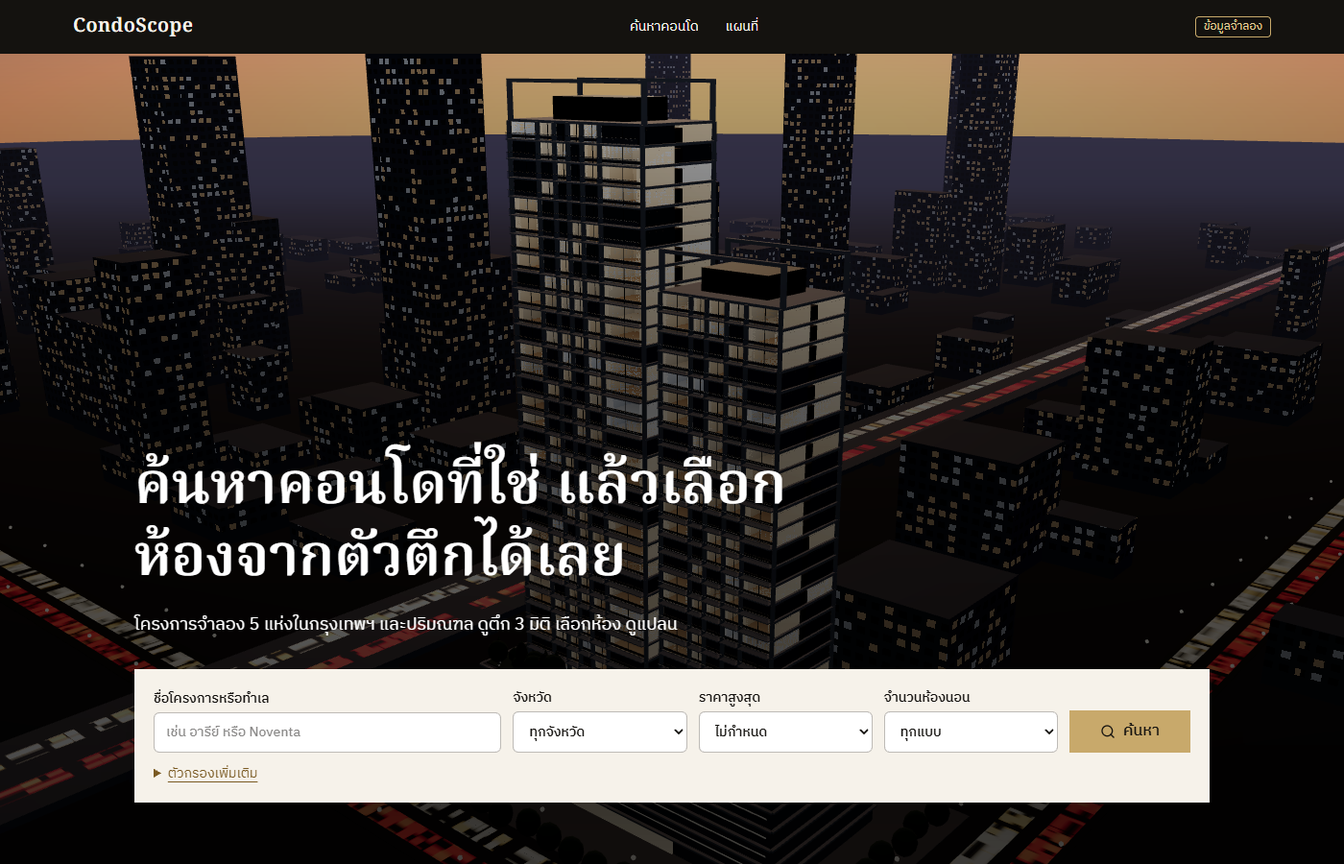
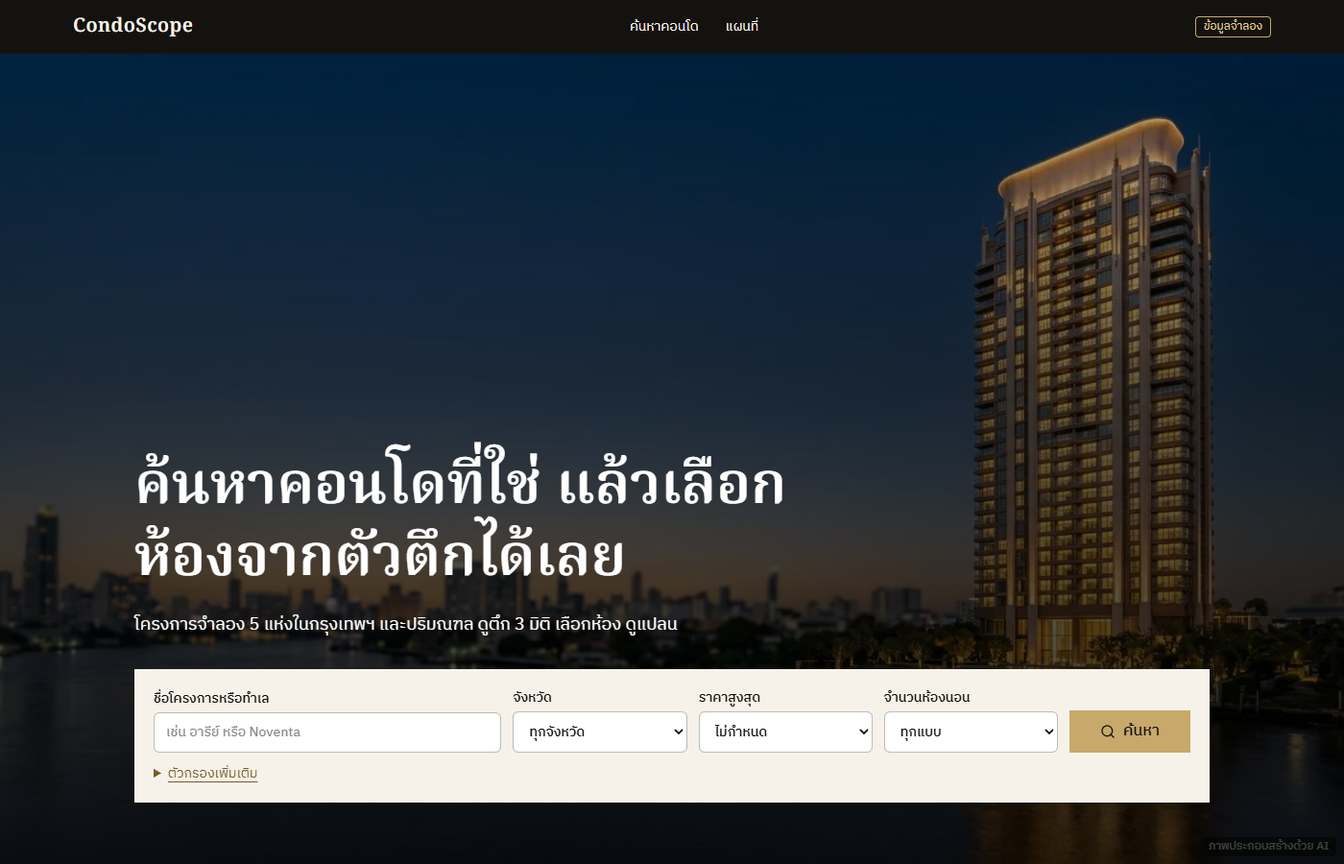
feat(web): intro e2e, skip button name, retaken screenshots, spec 8.1 and docs for the first-visit intro

diff --git a/apps/web/e2e/screenshots.spec.ts b/apps/web/e2e/screenshots.spec.ts
@@ -6,7 +6,8 @@ import { open3D, panelTitle, visibleUnits } from './helpers';
 // README pictures. Only runs through `npm run screenshots` (SCREENSHOTS=1) so normal e2e runs do not rewrite tracked files.
 test.skip(!process.env.SCREENSHOTS, 'run with npm run screenshots');
 // README pictures show the full-quality scene at the desktop size, unlike the other specs (see playwright.config.ts)
-test.use({ viewport: { width: 1400, height: 900 }, storageState: { cookies: [], origins: [] } });
+// returning visitor (no intro); the intro test below removes the mark
+test.use({ viewport: { width: 1400, height: 900 }, storageState: { cookies: [], origins: [{ origin: `http://localhost:${process.env.E2E_PORT ?? 4321}`, localStorage: [{ name: 'condoscope.intro', value: 'seen' }] }] } });
 
 const dir = fileURLToPath(new URL('../../../docs/screenshots/', import.meta.url));
 const shot = (page: import('@playwright/test').Page, name: string) => page.screenshot({ path: `${dir}${name}.png` });
@@ -69,11 +70,12 @@ test('ภาพหน้าจอสำหรับ README (6 หน้า + ม
   await shot(page, 'explorer-mobile');
 });
 
-// The home page story at points of the scroll (desktop, the live 3D tier). STORY_REVIEW_DIR also takes the phone sizes, for looking at only.
+// The first-visit intro at points of the scroll (desktop, the live 3D tier). STORY_REVIEW_DIR also takes the phone sizes, for looking at only.
 test('ภาพหน้าจอส่วนเล่าเรื่อง', async ({ page }) => {
   test.setTimeout(300_000);
   mkdirSync(dir, { recursive: true });
   await page.addInitScript(() => {
+    localStorage.removeItem('condoscope.intro'); // a first-time visitor
     Object.defineProperty(navigator, 'hardwareConcurrency', { value: 8 });
     Object.defineProperty(navigator, 'deviceMemory', { value: 8 });
   });
@@ -87,10 +89,10 @@ test('ภาพหน้าจอส่วนเล่าเรื่อง', as
     await page.setViewportSize({ width: w, height: h });
     await page.goto('');
     await expect(page.locator('.story-stage canvas')).toBeAttached({ timeout: 90_000 });
-    for (const [name, f] of [['first', 0], ['filter', 0.2], ['tower', 0.58], ['room', 0.84], ['end', 1]] as const) {
+    for (const [name, f] of [['intro-first', 0], ['intro-filter', 0.2], ['intro-tower', 0.58], ['intro-room', 0.84], ['intro-end', 1]] as const) {
       await scrollTo(f);
       await page.waitForTimeout(w === 1400 ? 4500 : 3000);
-      await page.screenshot({ path: keep ? `${dir}story-${name}.png` : `${review}/story-${name}-${w}.png` });
+      await page.screenshot({ path: keep ? `${dir}${name}.png` : `${review}/${name}-${w}.png` });
     }
   }
 });

diff --git a/apps/web/playwright.config.ts b/apps/web/playwright.config.ts
@@ -12,11 +12,12 @@ export default defineConfig({
   expect: { timeout: 15_000 },
   fullyParallel: false,
   workers: 1,
+  // Every test is a returning visitor: the first-visit intro is skipped (story.spec.ts tests the intro with an empty storage).
   // The 3D scene starts in its cheaper tier and the window is smaller: on a 2-core CI runner with software WebGL the full tier
   // blocked the page for 16 s while the canvas was unmounted (seen in traces). The tier switch itself is covered by frameGuard tests.
   use: {
     baseURL: `http://localhost:${PORT}/condoscope/`, viewport: { width: 1100, height: 720 },
-    storageState: { cookies: [], origins: [{ origin: `http://localhost:${PORT}`, localStorage: [{ name: 'condoscope.quality', value: 'low' }] }] }, trace: 'retain-on-failure', screenshot: 'only-on-failure',
+    storageState: { cookies: [], origins: [{ origin: `http://localhost:${PORT}`, localStorage: [{ name: 'condoscope.quality', value: 'low' }, { name: 'condoscope.intro', value: 'seen' }] }] }, trace: 'retain-on-failure', screenshot: 'only-on-failure',
   },
   projects: [
     { name: 'chromium', grepInvert: /@nogl/, use: { browserName: 'chromium', launchOptions: { args: SOFT_GL } } },

diff --git a/apps/web/src/components/IntroSkip.tsx b/apps/web/src/components/IntroSkip.tsx
@@ -4,8 +4,8 @@ import { useFinishIntro } from '../lib/intro';
 export default function IntroSkip() {
   const finish = useFinishIntro();
   return (
-    <button type="button" onClick={finish} aria-label="ข้ามการแนะนำ" className="fixed right-4 top-16 z-50 bg-ivory px-5 py-2 font-medium text-ink shadow-lg hover:bg-champagne-soft">
-      ข้าม
+    <button type="button" onClick={finish} className="fixed right-4 top-16 z-50 bg-ivory px-5 py-2 font-medium text-ink shadow-lg hover:bg-champagne-soft">
+      ข้าม<span className="sr-only">การแนะนำ</span>
     </button>
   );
 }

diff --git a/CLAUDE.md b/CLAUDE.md
@@ -63,16 +63,16 @@
   - branch นี้ merge `fix/e2e-slow-frames` (PR #6) เข้ามาแล้วเพื่อให้ e2e ของ 3D เสถียรขึ้น
   - ✅ ดูภาพหน้าจอแล้ว (1400×900 ครบ, 1024×700 และ 390×844 หน้าแรก/โครงการ/ห้อง ไม่ล้น ไม่มีเลื่อนแนวนอน) · e2e รอบเต็มในเครื่อง 44 ผ่าน + 1 ข้าม · เอกสารอัปเดตแล้ว (README, `docs/architecture.md` หัวข้อ "ภาษาภาพ") · สเปกข้อ 8.1 เพิ่มประโยคว่าใต้ช่องค้นหามีส่วนเล่าเรื่องได้ (ผู้ใช้ยืนยัน 2026-11-15) และข้อ 8.2 แก้บรรทัดโทนสีให้ตรงแผน 5 · merge และ deploy แล้ว (CI บน main เขียว)
   - 🧑 **test case QA/BA ที่อาจล้าสมัย (ไม่แก้ให้):** ข้อที่อ้างลำดับ/ข้อความบนหน้าแรก (Hero ใหม่, "เขต" และ "ราคาต่ำสุด" ย้ายไป "ตัวกรองเพิ่มเติม"), การ์ดและหน้าค้นหา, หน้าโครงการ (ลำดับองค์ประกอบ, CTA ก่อนเนื้อหา), contrast/สี, `user-flow.md` และภาพหน้าจอในเอกสาร
-- ✅ **แผน 6 (จอแรกเป็นตึก 3D + scroll story + View Transitions) เขียนโค้ดครบแล้ว บน branch `feat/plan-6` (PR #10) รอผู้ใช้ merge** (`docs/plans/2026-11-12-plan-6-scroll-story.md`; ผู้ใช้อนุมัติ 2026-11-15 และสั่งแก้ทิศทางเมื่อ 2026-11-15) · ภายใต้ `apps/web/src/features/story/` ดู `docs/architecture.md` หัวข้อ "จอแรกและ scroll story"
-  - **ทิศทางที่ผู้ใช้สั่งแก้ (ตรงกับสเปกข้อ 8.1 ที่แก้แล้ว):** (1) จอแรกเป็นตึก 3D พื้นหลังเต็มจอ ช่องค้นหาลอยบนภาพและใช้ได้ทันที — ภาพนิ่งขึ้นก่อนแล้วค่อยเปลี่ยนเป็น 3D เมื่อโหลดเสร็จ (2) เนื้อหาเป็นการแนะนำ**ระบบ** ไม่ใช่โครงการเดียว: ค้นหา/กรอง → แผนที่ → ตึก 3D ดูสถานะทีละชั้น → แปลนและภาพภายใน → จองเดโม ตัวเลขเป็นภาพรวม (จำนวนโครงการ, ห้องว่างรวม) ตึกสลับ 3 โครงการ (3) มีปุ่ม "ข้ามส่วนนี้" ไม่ล็อกการเลื่อน ลดการเคลื่อนไหว = เนื้อหานิ่ง (4) แก้สเปกข้อ 8.1 และกฎใน CLAUDE.md ข้อ "หน้าแรกต้องเป็นหน้าค้นหา" แล้ว (เดิมห้ามตึก 3D ในจอแรก) — **ผมแก้ข้อกฎใน CLAUDE.md ด้วยตามที่ผู้ใช้สั่งเปลี่ยนสเปก**
-  - ทำแล้ว: ตัวขับการเลื่อนเอง (ไม่ใช้ GSAP/Lenis) · ไทม์ไลน์เป็นฟังก์ชันบริสุทธิ์ของ `p` (6 บท, 3 ฉาก) · 3 tier (live 3D / ภาพนิ่ง 4 ภาพ / เนื้อหานิ่ง) · `StoryHero` อยู่ใน entry วาดจอแรกทันทีไม่รอ API · ไฟห้องว่างทีละชั้น (`Towers` prop `storyFloor`) · ตัวเลขห้องว่างรวมทุกโครงการ (ไม่แสดงถ้ามีโครงการไม่ตอบ) · กล้องพุ่งเข้าห้องเลี้ยวอ้อมตึก · ภาพห้องนั่งเล่นเปิดจากหน้าต่างห้อง · View Transition การ์ด→Hero · ภาพนิ่ง `npm run story-stills` (3 โครงการ) · งบ bundle `storyGzip` 40 KB
-  - Test ล่าสุด: `tsc` ผ่าน, Vitest web 293 ผ่าน, bundle ผ่าน (entry ≈ 106 KB gzip รวมชิ้น start เพดาน 130 เกินเป้า 105 เล็กน้อยเพราะ `StoryHero` อยู่ใน entry, `StoryScene` ≈ 1.6 KB, three.js ไม่อยู่ใน entry), e2e รอบเต็ม 58 ผ่าน + 3 ข้าม (spec ภาพหน้าจอ 2 ข้อและภาพนิ่ง รันเฉพาะตอนสั่ง) โดย `story.spec.ts` 14 ข้อ · ดูภาพหน้าจอเองที่ 1400×900, 390×844, 320×640 แล้ว (เจอและแก้: ตัวอักษรบทเป็นสีเข้มบนภาพมืด, ช่องว่างงาช้างใต้เวที)
-  - ⚠ ที่ต่างจากแผน: **`Link viewTransition` ใช้ไม่ได้กับ `HashRouter`** จึงให้ `ProjectCard` ห่อ `navigate()` ด้วย `document.startViewTransition` เอง · e2e ข้อ "จอแรกไม่มี canvas" ถูกแทนด้วย "ช่องค้นหาอยู่ในจอและใช้ได้ทันที; เครื่องอ่อนไม่ดาวน์โหลดโค้ด 3D เลย" · `Probe` ของ `Building3D` เพิ่มตะขอทดสอบ `lookFrom` (ใช้ถ่ายภาพนิ่ง)
-  - ⚠ **ต้นทุนข้อมูล:** เครื่องที่ได้ tier live เรียก `getExplorer` สูงสุด 3 ครั้ง (700–1,400 แถวต่อครั้ง) + `getProject` ทุกโครงการ 5 ครั้ง (ทุก tier) ต่อผู้เข้าชม — เดิมหน้าแรกไม่เรียกพวกนี้ · ถ้าโควตา D1 ฟรีตึง ให้ลดเหลือภาพนิ่งอย่างเดียว หรือเพิ่ม endpoint สรุปห้องว่างรวม (ผู้ใช้ต้องตัดสินใจ ผมไม่ได้เพิ่ม API)
-  - ⚠ บน Windows ถ้า e2e ค้างแล้ว `workerd` ยังกินพอร์ต/ล็อกโฟลเดอร์ `apps/api/.wrangler/e2e-<พอร์ต>` ให้เปลี่ยนพอร์ตด้วย `E2E_PORT=… E2E_API_PORT=…` (ใช้ได้ผล)
-  - 🧑 **ผู้ใช้ต้องทำเอง:** ลองบนมือถือจริง iOS/Android (ลื่นไหม, address bar หด/ขยาย, สลับเป็นภาพนิ่งเองบนเครื่องอ่อนไหม), ลดการเคลื่อนไหว, screen reader, Firefox/เบราว์เซอร์เก่า (View Transitions) · ผมวัด FPS บนเครื่องจริงไม่ได้ · ตัดสินใจเรื่องต้นทุนข้อมูลข้างบน
-  - 🧑 **test case QA/BA ที่อาจล้าสมัย (ไม่แก้ให้):** TC ของหน้าแรกเกือบทั้งหมด (จอแรกตอนนี้เป็นตึก 3D/ภาพนิ่งพร้อมช่องค้นหาลอย, ข้อ "ไม่มี 3D บนหน้าแรก" ผิดแล้ว, ลำดับหัวข้อ, ช่องค้นหาจางหายเมื่อเลื่อน), การ์ดโครงการ (ภาพ AI + ป้าย + transition), ลดการเคลื่อนไหว, `user-flow.md`
-  - ข้อเล็กที่ยังไม่แก้: ปุ่มย้อนกลับของเบราว์เซอร์ไม่มี View Transition · ถ้าข้อมูลสรุปห้องว่างไม่มา บทตัวเลขจะไม่มีตัวเลข (ไม่แสดง error) · entry เกินเป้า 105 KB เล็กน้อย
+- ✅ **แผน 6 (intro ผู้เข้าชมครั้งแรก + scroll story + View Transitions) เขียนโค้ดครบแล้ว บน branch `feat/plan-6` (PR #10) รอผู้ใช้ merge** (`docs/plans/2026-11-12-plan-6-scroll-story.md`; ผู้ใช้อนุมัติ 2026-11-15 และสั่งแก้ทิศทางสองรอบในวันเดียวกัน) · โค้ดใน `apps/web/src/features/story/`, `features/home/HomeGate.tsx`, `lib/intro.ts` · ดู `docs/architecture.md` หัวข้อ "Intro ผู้เข้าชมครั้งแรก"
+  - **ทิศทางสุดท้ายที่ผู้ใช้สั่ง (สเปกข้อ 8.1 และกฎด้านล่างแก้ตรงกันแล้ว):** เข้า `/` ครั้งแรกเห็น **intro เต็มจอ ไม่มีช่องค้นหา** เลื่อนแนะนำระบบ (ตึก 3D → ค้นหา/กรอง → แผนที่ → เลือกห้องจากตัวตึก → แปลนและภาพภายใน → จองเดโม) บทสุดท้ายปุ่ม "เริ่มหาคอนโด" ไปหน้าแรกปกติ (Hero `home-hero` + ช่องค้นหา ตามแผน 5) · ปุ่ม "ข้าม" มองเห็นตลอดและเป็นจุดโฟกัสแรก ไม่ล็อกการเลื่อน · จำใน localStorage (`condoscope.intro`) ใช้ไม่ได้ก็ยังข้ามได้ · ลิงก์ "ดูแนะนำอีกครั้ง" ที่ Footer (`/intro`) · ลิงก์ตรงหน้าอื่นไม่เจอ intro · ลดการเคลื่อนไหว = สไลด์นิ่งไม่โหลดโค้ด 3D · **ผมแก้กฎ "หน้าแรกต้องเป็นหน้าค้นหา" ใน CLAUDE.md ตามที่ผู้ใช้สั่งเปลี่ยนสเปก** (หน้าค้นหายังเป็นหน้าแรกของผู้ใช้ที่กลับมา)
+  - ทำแล้ว: ตัวขับการเลื่อนเอง (ไม่ใช้ GSAP/Lenis) · ไทม์ไลน์เป็นฟังก์ชันบริสุทธิ์ของ `p` (6 บท, 3 ตึกจาก 3 โครงการ) · 3 tier (live 3D / ภาพนิ่ง 4 ภาพ / สไลด์นิ่ง) · `Intro` เป็นชิ้น lazy (คนกลับมาไม่โหลด) ภาพนิ่งแรกขึ้นทันที · ไฟห้องว่างทีละชั้น (`Towers` prop `storyFloor`) · ตัวเลขห้องว่างรวมทุกโครงการ (ไม่แสดงถ้ามีโครงการไม่ตอบ) · กล้องพุ่งเข้าห้องเลี้ยวอ้อมตึก · ภาพห้องเปิดจากหน้าต่างห้อง · View Transition การ์ด→Hero · `npm run story-stills` · งบ `storyGzip` 40 KB
+  - Test ล่าสุด: ดูบรรทัดสรุปท้ายหัวข้อนี้ในรายงานของ PR #10 · ภาพหน้าจอดูเองที่ 1400×900, 390×844, 320×640 แล้ว
+  - ⚠ ที่ต่างจากแผนเดิม: `Link viewTransition` ใช้ไม่ได้กับ `HashRouter` จึงห่อ `navigate()` ด้วย `document.startViewTransition` เองใน `ProjectCard` · ปุ่มข้ามใช้ข้อความ "ข้าม" + ส่วนซ่อน "การแนะนำ" (ไม่ใช้ `aria-label` เพราะ axe `label-content-name-mismatch`) · `Probe` ของ `Building3D` เพิ่มตะขอทดสอบ `lookFrom` · e2e ทั้งชุดตั้ง `condoscope.intro=seen` ใน `playwright.config.ts` (ผู้ใช้ที่กลับมา) ส่วน `story.spec.ts` เริ่มจาก storage ว่าง
+  - ⚠ **ต้นทุนข้อมูล:** เกิดเฉพาะผู้เข้าชมครั้งแรกของแต่ละเครื่อง: `getProject` ทุกโครงการ 5 ครั้ง (ทุก tier) และถ้าได้ tier live อีก `getExplorer` สูงสุด 3 ครั้ง (700–1,400 แถว/ครั้ง) · ผู้ที่กลับมาไม่ผ่าน intro จึงไม่เสียต้นทุนนี้ · ถ้าโควตา D1 ฟรีตึง ให้ลดเหลือภาพนิ่งอย่างเดียว (ผู้ใช้ตัดสินใจ)
+  - ⚠ บน Windows ถ้า e2e ค้างแล้ว `workerd` ยังกินพอร์ต/ล็อกโฟลเดอร์ `apps/api/.wrangler/e2e-<พอร์ต>` ให้เปลี่ยนพอร์ตด้วย `E2E_PORT=… E2E_API_PORT=…`
+  - 🧑 **ผู้ใช้ต้องทำเอง:** ลองบนมือถือจริง iOS/Android (ลื่นไหม, address bar หด/ขยาย, สลับเป็นภาพนิ่งเองบนเครื่องอ่อนไหม), ลดการเคลื่อนไหว, screen reader (อ่านบทครบ ปุ่มข้ามเป็นตัวแรก), Firefox/เบราว์เซอร์เก่า (View Transitions), localStorage ถูกบล็อก (โหมดส่วนตัวบางตัว) · ผมวัด FPS บนเครื่องจริงไม่ได้
+  - 🧑 **test case QA/BA ที่อาจล้าสมัย (ไม่แก้ให้):** TC ของหน้าแรกที่สมมติว่าเข้า `/` แล้วเจอ Hero ทันที (ตอนนี้ผู้เข้าครั้งแรกเจอ intro — ต้องล้าง localStorage หรือกดข้ามก่อน), การ์ดโครงการ (ภาพ AI + ป้าย + transition), ลดการเคลื่อนไหว, Footer (มีลิงก์ใหม่), `user-flow.md` (ทางเดินหลักเริ่มด้วย intro สำหรับผู้เข้าครั้งแรก)
+  - ข้อเล็กที่ยังไม่แก้: ปุ่มย้อนกลับของเบราว์เซอร์ไม่มี View Transition · ถ้าข้อมูลสรุปห้องว่างไม่มา บทตัวเลขไม่มีตัวเลข (ไม่แสดง error) · ผู้ใช้ที่ localStorage ถูกบล็อกจะเห็น intro ทุกครั้งที่เปิดแท็บใหม่
 
 ## กฎที่ห้ามฝ่า
 - **งบ 0 บาท:** ใช้ free tier และ open source เท่านั้น ห้ามใช้บริการที่ต้องผูกบัตร
@@ -80,7 +80,7 @@
 - ห้ามแสดงข้อมูล fallback ว่าเป็นข้อมูล live
 - ห้ามมี secret ใน frontend และทุก SQL ต้องใช้ parameter binding
 - UI เป็นภาษาไทย สกุลเงิน THB
-- **หน้าแรกต้องเป็นหน้าค้นหาคอนโด** ห้ามเปิดมาเจอแผนที่เต็มจอหรือหน้าโครงการ **จอแรกเป็นตึก 3D พื้นหลังเต็มจอได้ (ผู้ใช้เปลี่ยน 2026-11-15)** แต่ช่องค้นหาต้องลอยบนภาพและใช้ได้ทันทีโดยไม่ต้องเลื่อน (320×640 / 390×844 / ≥1024) และ three.js ห้ามอยู่ใน entry (โหลด lazy ภายหลังภาพนิ่ง) (ดูสเปกข้อ 8.1)
+- **หน้าแรกของผู้ใช้ที่กลับมาต้องเป็นหน้าค้นหาคอนโด** (Hero ภาพ `home-hero` + ช่องค้นหา + การ์ดโครงการ) ห้ามเปิดมาเจอแผนที่หรือหน้าโครงการ · **ผู้เข้าชมครั้งแรกเห็น intro เต็มจอ (ตึก 3D ไม่มีช่องค้นหา) ที่ `/` เท่านั้น** มีปุ่มข้ามเสมอ ลิงก์ตรงหน้าอื่นไม่เจอ intro และ three.js ห้ามอยู่ใน entry (ผู้ใช้เปลี่ยนข้อกำหนดนี้ 2026-11-15, ดูสเปกข้อ 8.1)
 - **ตอนแก้สเปกหรือไฟล์นี้ ให้อ่านเวอร์ชันล่าสุดจากดิสก์ก่อนทุกครั้ง** ผู้ใช้อาจแก้ไฟล์จากแชท claude.ai ไว้ (เคยเกิดกรณีเขียนทับจนข้อ 8.1 หายไปมาแล้ว)
 
 ## เอกสาร QA/BA ของผู้ใช้ (`docs/qa-ba/`)

diff --git a/docs/architecture.md b/docs/architecture.md
@@ -113,15 +113,17 @@ erDiagram
 
 **e2e กับ 3D บน CI:** runner 2 คอร์ใช้ software WebGL ซึ่งวาดเฟรมละหลายวินาที ครั้งหนึ่งการออกจาก Explorer ค้างเธรดหลัก ~16 วินาที (เห็นใน trace) จึงให้ e2e ตั้ง `localStorage['condoscope.quality']='low'` (ฉากเริ่มที่คุณภาพต่ำ ผู้ใช้จริงตั้งค่านี้ได้เหมือนกัน) และใช้หน้าต่าง 1100×720 · spec ภาพหน้าจอ (`npm run screenshots`) ยังใช้ 1400×900 คุณภาพเต็ม · ทดสอบการสลับคุณภาพที่ `scene/frameGuard.test.ts`
 
-**จอแรกและ scroll story (แผน 6 แก้ตามผู้ใช้ 2026-11-15, `apps/web/src/features/story/`):** จอแรกของหน้าแรกคือตึก 3 มิติเต็มจอ ช่องค้นหา (`SearchBox` จาก `home/Hero.tsx`) ลอยบนภาพ ใช้ได้ทันที ที่ 320×640 / 390×844 / ≥ 1024 แล้วเลื่อนลงมาจะเล่าวิธีใช้เว็บ (ไม่ใช่โฆษณาโครงการเดียว): **ค้นหา → กรอง → แผนที่ → เลือกห้องจากตัวตึกดูสถานะทีละชั้น (ตัวเลขห้องว่างรวมทุกโครงการนับขึ้น) → แปลนและภาพภายใน → จองเดโม** · ตึกในเรื่องสลับ 3 โครงการ (`pickStoryProjects`: โครงการแนะนำก่อน ที่เหลือตาม id): ตึกที่ 1 ช่วงค้นหา/กรอง/แผนที่, ตึกที่ 2 ช่วงเลือกห้อง (ไฟสว่างทีละชั้น), ตึกที่ 3 ช่วงพุ่งเข้าห้อง
-- **ความเร็วจอแรก:** `StoryHero` อยู่ใน entry (ภาพนิ่งแรก `still-1` โหลดด้วย `fetchpriority=high`, ไม่รอรายการโครงการจาก API: วาดจอแรกทันทีแล้วเติมตัวเลือกจังหวัด/เขตภายหลัง) · 3D (`StoryScene` + ชิ้น three.js ที่ใช้ร่วมกับ Explorer) โหลดแบบ lazy **หลัง**ภาพนิ่ง เฉพาะ tier `live` แล้วค่อย fade เข้าเมื่อวาดเฟรมแรกเสร็จ · tier `stills`/`static` ไม่ดาวน์โหลดโค้ด 3D เลย (e2e ตรวจ)
-- **ตัวขับ:** เขียนเอง ไม่ใช้ GSAP/Lenis (GSAP+ScrollTrigger ≈ 45 KB gzip ดัน entry, Lenis จี้การเลื่อน) — `position: sticky` ในกล่องสูง `380svh`/`500svh` + listener `scroll` แบบ passive + rAF คำนวณ `p ∈ [0,1]` จาก `getBoundingClientRect` (`scroll.ts`, `useScrollProgress.ts`) ใช้ `svh`/`clientHeight` ไม่ใช้ `innerHeight` · เวทีสูง `100svh` (ที่ต้นหน้ามีแถบเมนู 3.5rem อยู่ข้างบน กล่องค้นหาจึงเว้นล่างอีก 3.5rem ให้อยู่ในจอแรก) · **ห้ามล็อกการเลื่อน** ไม่มี `preventDefault`, ปุ่ม "ข้ามส่วนนี้" (ปุ่มจริง อยู่หลังช่องค้นหา ไม่ใช่ลิงก์ `#…` เพราะ HashRouter) · ช่องค้นหาจางหายเมื่อเลื่อนผ่านบทแรก (`inert` + `opacity`: โฟกัสไม่ได้ขณะมองไม่เห็น) และกลับมาเมื่อเลื่อนขึ้นสุด; ท้ายเรื่องมีปุ่ม "เริ่มค้นหาคอนโด" และเมนู "ค้นหาคอนโด" ตลอด
-- **ไทม์ไลน์เป็นฟังก์ชันบริสุทธิ์ของ `p`** (`timeline.ts`: บท `search/filter/map/tower/plan/reserve`, `sceneAt`, `orbitDegrees`, ตัวเลข, ชั้นที่สว่าง, `pickShowcaseUnit` · `poses.ts`: ท่ากล้อง แยกไฟล์เพราะ `layout.ts` ดึง three.js) จึงถูกต้องแม้กระโดดเข้ากลางเรื่อง · ท่าพุ่งเข้าห้อง **เลี้ยวอ้อมตึก** ไม่ตัดผ่านตัวตึก (มี test)
-- **3 tier** (`tier.ts` เลือกครั้งเดียวตอนเมานต์ และเมื่อค่าลดการเคลื่อนไหวเปลี่ยน): `live` = Canvas 3D เบา (ใช้ `Towers/City/Landscape/Sky` ของ Explorer ไม่มี SSAO/เงา/OrbitControls, `frameloop="demand"`, `pointer-events: none`) · `stills` = ภาพนิ่ง 4 ภาพจากฉากเดียวกันใน 3 โครงการ (`public/images/story/still-N(.|-sm).webp`, `npm run story-stills`) cross-fade ตาม `p` · `static` (ลดการเคลื่อนไหว) = ภาพ Hero นิ่งเดิม + เนื้อหานิ่งเรียงลงมา มีตัวเลขสุดท้าย ไม่มีเวที · `live` ลดเป็น `stills` อัตโนมัติถ้าชิ้น 3D โหลดไม่ได้ context หาย หรือ 30 เฟรมแรกเฉลี่ย > 28 ms (`slowStory.ts`) จำไว้ทั้งเซสชัน
-- **ข้อมูล** (`useStoryData.ts`): ตัวเลขทั้งระบบมาจาก `getProject` ของทุกโครงการ (aggregate ราคาถูก) ตอนว่าง · **ถ้ามีโครงการใดไม่ตอบ จะไม่แสดงตัวเลขห้องว่าง** (ไม่ให้ยอดรวมไม่ครบ) · ฉาก 3D: ตึกแรกโหลดทันที อีก 2 ตึกโหลดเมื่อเลื่อนเกิน 15% (เฉพาะ tier live; ผลคือ `getExplorer` สูงสุด 3 ครั้งต่อผู้เข้าชมที่เครื่องแรง แทน 1 ครั้งก่อนหน้า — ดูโควตา D1 ใน `docs/architecture.md` ท้ายไฟล์) · ตึกที่ยังไม่มาถึงจะใช้ตึกก่อนหน้าไปก่อน ไม่ทิ้งช่องว่าง · สลับตึกด้วยการหรี่ canvas สั้นๆ · ถ้าข้อมูลมาจาก fallback แบนเนอร์ Demo Fallback Mode ยังขึ้นตามเดิม
-- **View Transition การ์ด → Hero:** Router 8 รองรับ `viewTransition` เฉพาะ data router แต่แอปใช้ `HashRouter` (ทดสอบแล้วไม่เรียก `startViewTransition`) จึงให้ `ProjectCard` ห่อ `navigate()` ด้วย `document.startViewTransition` เอง: ตั้ง `view-transition-name: project-hero` เฉพาะภาพของการ์ดที่ถูกกด และหน้าโครงการตั้งชื่อเดียวกันที่ Hero · การ์ดส่งข้อมูลโครงการไปกับ `location.state` ให้หน้าปลายทางวาด Hero ทันที (ตรวจรูปแบบก่อนใช้) · ไม่รองรับหรือลดการเคลื่อนไหว = ลิงก์ปกติ · เฉพาะไปข้างหน้า
-- **งบ bundle:** entry ≈ 106 KB gzip (เพดาน 130; เกินเป้า 105 เล็กน้อยเพราะ `StoryHero` อยู่ใน entry เพื่อให้จอแรกวาดทันที) · ชิ้น `StoryScene` ≤ 40 KB (`storyGzip`, three.js ใช้ร่วมกับ Explorer ไม่นับ) · ภาพนิ่งแต่ละภาพ ≤ 90 KB · three.js ห้ามอยู่ใน entry (`check:bundles` ตรวจ)
-- **ข้อควรระวัง:** FPS บนมือถือจริงและแถบ address bar ของ iOS ผมวัดไม่ได้ (e2e ใช้ software WebGL ตรวจพฤติกรรม) · e2e ตั้ง `hardwareConcurrency`/`deviceMemory` เองเพื่อเลือก tier ให้แน่นอนบน runner 2 คอร์
+**Intro ผู้เข้าชมครั้งแรก (แผน 6 แก้ตามผู้ใช้ 2026-11-15, `apps/web/src/features/story/`, `lib/intro.ts`):** ผู้เข้า `/` ครั้งแรกเจอ intro เต็มจอแทนหน้าแรก (ตึก 3 มิติ ไม่มีช่องค้นหา) เลื่อนแนะนำระบบ 6 บท: **ตึก 3D → ค้นหา/กรอง → แผนที่ → เลือกห้องจากตัวตึกดูสถานะทีละชั้น (ตัวเลขห้องว่างรวมนับขึ้น) → แปลนและภาพภายใน → จองเดโม** ตึกสลับ 3 โครงการ (`pickStoryProjects`) บทสุดท้ายมีปุ่ม "เริ่มหาคอนโด" ไปหน้าแรกปกติ (Hero `home-hero` + ช่องค้นหา)
+- **ประตู:** `HomeGate` (`features/home/HomeGate.tsx`) เป็นองค์ประกอบของเส้นทาง `/`: ถ้า `useSeenIntro()` → `HomePage` ไม่งั้น `Intro` · `/intro` แสดง intro เสมอ (ลิงก์ "ดูแนะนำอีกครั้ง" ที่ Footer) เมื่อจบจะ `navigate('/')` · **หน้าอื่นไม่มีประตู** (ลิงก์ตรงไป `/project/…`, `/explorer/…`, `/unit/…`, `/search`, `/map` ไม่เจอ intro และการเข้าหน้าเหล่านี้ไม่ถือว่าดูแล้ว) · `lib/intro.ts`: เครื่องหมาย `condoscope.intro = seen` ใน localStorage + แฟล็กในหน่วยความจำ (localStorage ใช้ไม่ได้ = ยังแสดง intro ได้ ปุ่มข้ามทำงาน และ intro ไม่กลับมาในรอบนั้น, ไม่ throw)
+- **ปุ่มข้าม:** `IntroSkip` อยู่ใน `Layout` **ก่อน Navbar** จึงเป็นจุดโฟกัสแรกของหน้า มองเห็นตลอด (`fixed`) ชื่อ "ข้ามการแนะนำ" (ข้อความที่เห็น "ข้าม" + ส่วนที่ซ่อน — ไม่ใช้ `aria-label` เพราะ axe `label-content-name-mismatch` ไม่ผ่าน) · ไม่มี `preventDefault` ที่ wheel/touch: **ไม่ล็อกการเลื่อน**
+- **ความเร็ว:** `Intro` เป็นชิ้น lazy (≈ 5 KB gzip) ผู้ใช้ที่กลับมาไม่ดาวน์โหลด · ระหว่างรอชิ้นนี้ `IntroFallback` แสดงภาพนิ่งแรก `still-1` (`fetchpriority=high`) ทันที · ภาพนิ่ง 4 ภาพ (`public/images/story/still-N(.|-sm).webp` ถ่ายจากฉากเดียวกันใน 3 โครงการ ด้วย `npm run story-stills`) · 3D (`StoryScene` + ชิ้น three.js ร่วมกับ Explorer) โหลดหลังภาพนิ่ง เฉพาะ tier `live` แล้วค่อย fade เข้าเมื่อวาดเฟรมแรกเสร็จ
+- **ตัวขับ:** เขียนเอง ไม่ใช้ GSAP/Lenis — `position: sticky` ในกล่องสูง `380svh`/`500svh` + listener `scroll` แบบ passive + rAF คำนวณ `p ∈ [0,1]` (`scroll.ts`, `useScrollProgress.ts`) ใช้ `svh`/`clientHeight` ไม่ใช้ `innerHeight` · ไทม์ไลน์เป็นฟังก์ชันบริสุทธิ์ของ `p` (`timeline.ts`: บท `welcome/filter/map/tower/plan/reserve`, `sceneAt`, `orbitDegrees`, ตัวเลข, ชั้นที่สว่าง · `poses.ts`: ท่ากล้อง แยกไฟล์เพราะ `layout.ts` ดึง three.js) จึงถูกต้องแม้กระโดดเข้ากลางเรื่อง · ท่าพุ่งเข้าห้องเลี้ยวอ้อมตึก ไม่ตัดผ่านตัวตึก (มี test)
+- **3 tier** (`tier.ts`): `live` = Canvas 3D เบา (ฉากของ Explorer ไม่มี SSAO/เงา/OrbitControls, `frameloop="demand"`) · `stills` = ภาพนิ่ง cross-fade ตาม `p` ไม่ดาวน์โหลดโค้ด 3D เลย · `static` (ลดการเคลื่อนไหว) = **สไลด์นิ่ง 6 แผ่นเรียงลงมา** ไม่มีเวทีปัก ไม่มี canvas ไม่โหลดโค้ด 3D มีตัวเลขสุดท้าย · `live` ลดเป็น `stills` อัตโนมัติถ้าชิ้น 3D โหลดไม่ได้ context หาย หรือ 30 เฟรมแรกเฉลี่ย > 28 ms (`slowStory.ts`) จำไว้ทั้งเซสชัน
+- **ข้อมูล** (`useStoryData.ts`): ตัวเลขห้องว่างรวมมาจาก `getProject` ของทุกโครงการ (aggregate ราคาถูก) **ถ้ามีโครงการใดไม่ตอบ จะไม่แสดงตัวเลข** · ฉาก 3D: ตึกแรกโหลดทันที อีก 2 ตึกเมื่อเลื่อนเกิน 15% (เฉพาะ tier live → `getExplorer` สูงสุด 3 ครั้งต่อผู้เข้าชมครั้งแรกที่เครื่องแรง; **เกิดเฉพาะครั้งแรกของแต่ละเครื่อง** เพราะผู้ใช้ที่กลับมาไม่ผ่าน intro) · แบนเนอร์ Demo Fallback Mode ยังขึ้นตามเดิมถ้าข้อมูลมาจาก fallback
+- **View Transition การ์ด → Hero:** Router 8 รองรับ `viewTransition` เฉพาะ data router แต่แอปใช้ `HashRouter` จึงให้ `ProjectCard` ห่อ `navigate()` ด้วย `document.startViewTransition` เอง (ตั้ง `view-transition-name: project-hero` เฉพาะการ์ดที่กด) · การ์ดส่งข้อมูลโครงการไปกับ `location.state` ให้หน้าปลายทางวาด Hero ทันที · ลดการเคลื่อนไหว/ไม่รองรับ = ลิงก์ปกติ
+- **งบ bundle:** entry ≈ 104 KB gzip (กลับมาต่ำกว่าเป้า 105; เพดาน 130) · ชิ้น `StoryScene` ≤ 40 KB (`storyGzip`) · ภาพนิ่งแต่ละภาพ ≤ 90 KB · three.js ห้ามอยู่ใน entry (`check:bundles` ตรวจ)
+- **e2e:** `playwright.config.ts` ตั้ง `condoscope.intro = seen` ให้ทุก test (เป็นผู้ใช้ที่กลับมา) · `story.spec.ts` ใช้ storage ว่าง ทดสอบ intro โดยเฉพาะ
+- **ข้อควรระวัง:** FPS บนมือถือจริงและแถบ address bar ของ iOS ผมวัดไม่ได้ · e2e ตั้ง `hardwareConcurrency`/`deviceMemory` เองเพื่อเลือก tier ให้แน่นอน
 
 **ชั้นข้อมูล** (`services/api.ts` + `hooks/useResource.ts`): ทุกหน้าเรียกผ่าน `useResource(fetcher, deps)` ที่คืนสถานะ loading / ok / missing / error (มีปุ่มลองใหม่) คำตอบเก่าของคำขอที่ถูกแทนที่แล้วจะถูกทิ้ง ไม่เขียนทับหน้าใหม่ และรายงานแหล่งข้อมูล (live/fallback) ให้ Layout แสดงแบนเนอร์ Demo Fallback Mode
 

diff --git a/docs/specs/2026-11-09-condoscope-design.md b/docs/specs/2026-11-09-condoscope-design.md
@@ -107,10 +107,10 @@ packages/shared  ── ตัวสร้างข้อมูลแบบ dete
 
 ### 8.1 ลำดับหน้าและหน้าแรก (ผู้ใช้ย้ำ — สำคัญ)
 เว็บนี้คือ **เว็บหาคอนโดเพื่อซื้อ** หน้าแรกจึงต้องเป็นหน้า "ค้นหาและเลือกดูโครงการ" แบบพอร์ทัลอสังหาทั่วไป
-- **ห้าม**เปิดเว็บมาแล้วเจอแผนที่เต็มจอหรือหน้าโครงการ Featured · **จอแรกเป็นตึก 3D เป็นพื้นหลังเต็มจอได้ (ผู้ใช้เปลี่ยนข้อกำหนดนี้ 2026-11-15)** แต่ต้องมี **ช่องค้นหาลอยอยู่บนภาพและใช้ได้ทันทีโดยไม่ต้องเลื่อน** ที่ 320×640, 390×844 และ ≥ 1024
+- **ห้าม**เปิดเว็บมาแล้วเจอแผนที่เต็มจอหรือหน้าโครงการ Featured · **ผู้ใช้ที่กลับมาเจอหน้าค้นหาเป็นหน้าแรกเสมอ (Hero ภาพ `home-hero` + ช่องค้นหา)**
 - **หน้าแรก (`/`) เรียงจากบนลงล่าง:** Navbar → Hero ที่มี **ช่องค้นหาหลักเป็นจุดเด่นที่สุด** (ชื่อโครงการ/ทำเล + จังหวัด/เขต + ช่วงราคา + จำนวนห้องนอน) → ทางลัดทำเลยอดนิยม (chips เช่น อารีย์ บางซื่อ อ่อนนุช) → โครงการแนะนำ (การ์ด) → โครงการทั้งหมดหรือผลการค้นหา (การ์ด) → แถบชวนไป "สำรวจบนแผนที่" → Footer พร้อมข้อความข้อมูลจำลอง
-- ภาพจอแรก: แสดง **ภาพนิ่งของตึกก่อนทันที** (ภาพที่ถ่ายจากฉาก 3D) แล้วค่อยเปลี่ยนเป็น 3D สดเมื่อโหลดเสร็จ เฉพาะเครื่องที่แรงพอและไม่ได้ตั้งลดการเคลื่อนไหว/ประหยัดข้อมูล · **three.js ต้องไม่อยู่ในไฟล์ที่โหลดตอนเปิดหน้า** (โหลดทีหลังด้วย import แบบ lazy, `check:bundles` ตรวจ) · เครื่องที่ตั้งลดการเคลื่อนไหวได้ Hero ภาพนิ่ง `home-hero` และเนื้อหานิ่ง
-- **จอแรกต่อเนื่องเป็นส่วนเล่าเรื่องที่ขับด้วยการเลื่อน (scroll storytelling)** แนะนำ **ระบบ** (ไม่ใช่โครงการเดียว): ค้นหา/กรอง → แผนที่ → ตึก 3D ดูสถานะห้องทีละชั้น → แปลนและภาพภายใน → จองเดโม ตัวเลขเป็นภาพรวมทั้งระบบ (จำนวนโครงการ ห้องว่างรวม) ตึกในเรื่องสลับหลายโครงการ · **ห้ามล็อกการเลื่อน** มีปุ่ม "ข้ามส่วนนี้" · ลดการเคลื่อนไหว = เนื้อหานิ่ง ไม่มีเวทีปัก · ช่องค้นหาเป็นบทแรกของเรื่องและหลังเลื่อนผ่านแล้วค้นหาได้จากเมนู "ค้นหาคอนโด" และปุ่มท้ายเรื่อง (ผู้ใช้สั่ง 2026-11-15)
+- **intro สำหรับผู้เข้าชมครั้งแรก (ผู้ใช้สั่ง 2026-11-15, แทนที่ข้อกำหนดเดิมที่ให้จอแรกเป็นตึกพร้อมช่องค้นหาลอย):** เข้า `/` ครั้งแรก (ยังไม่มีเครื่องหมาย `condoscope.intro` ใน localStorage) แสดง **intro เต็มจอ ไม่มีช่องค้นหา** เป็นตึก 3D แล้วเลื่อนแนะนำระบบทีละบท: ตึก 3D → ค้นหา/กรอง → แผนที่ → เลือกห้องจากตัวตึกดูสถานะทีละชั้น → แปลนและภาพภายใน → จองเดโม ตัวเลขเป็นภาพรวมทั้งระบบ (จำนวนโครงการ ห้องว่างรวม) ตึกสลับหลายโครงการ · บทสุดท้ายมีปุ่ม "เริ่มหาคอนโด" ไปหน้าแรกปกติ (ที่มีช่องค้นหา)
+- **ปุ่ม "ข้าม" มองเห็นตลอดและเป็นจุดโฟกัสแรก** ห้ามล็อกการเลื่อน · จำว่าดูแล้วใน localStorage (ใช้ไม่ได้ = ยังแสดง intro ได้ แต่ปุ่มข้ามต้องใช้ได้และ intro ไม่กลับมาในรอบนั้น) · มีลิงก์ "ดูแนะนำอีกครั้ง" ที่ Footer (`/intro`) · **ลิงก์ตรงเข้าหน้าอื่น (โครงการ ห้อง Explorer ค้นหา แผนที่) ต้องไม่เจอ intro** · ลดการเคลื่อนไหว = สไลด์นิ่ง ไม่โหลดโค้ด 3D · ภาพแรกของ intro เป็นภาพนิ่งที่ขึ้นทันที แล้วค่อยเป็น 3D สดบนเครื่องที่แรงพอ · **three.js ต้องไม่อยู่ในไฟล์ที่โหลดตอนเปิดหน้า** (intro เป็นชิ้น lazy ที่คนกลับมาไม่ดาวน์โหลด)
 - กดค้นหาแล้วไปหน้า **ผลการค้นหา `/search?…`** มีตัวกรองด้านข้าง (มือถือเป็น drawer) มีการเรียงลำดับ (ราคา, ใหม่สุด) และแสดงรายการเป็นการ์ด ปุ่ม "ดูบนแผนที่" ส่งตัวกรองเดิมไปหน้า Map
 - **แผนที่ (`/map`) เป็นทางเลือกรอง** เข้าจากปุ่มหรือเมนู ไม่ใช่ทางหลัก
 - **ทางเดินหลักของผู้ใช้:** หน้าแรก/ค้นหา → การ์ดโครงการ → **หน้าโครงการ** (แกลเลอรี ราคาเริ่มต้น สิ่งอำนวยความสะดวก ห้องว่างแยกตามประเภท) → ปุ่มเด่น **"เลือกห้องจากตัวอาคาร"** → **Building Explorer 3D** → หน้า Unit Detail
